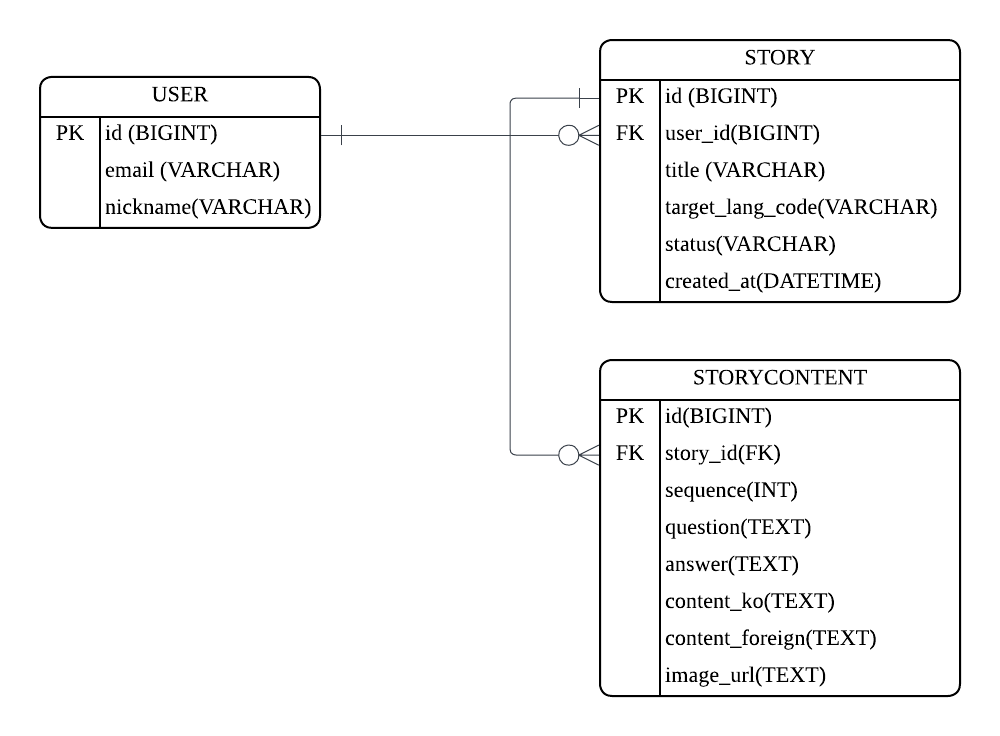
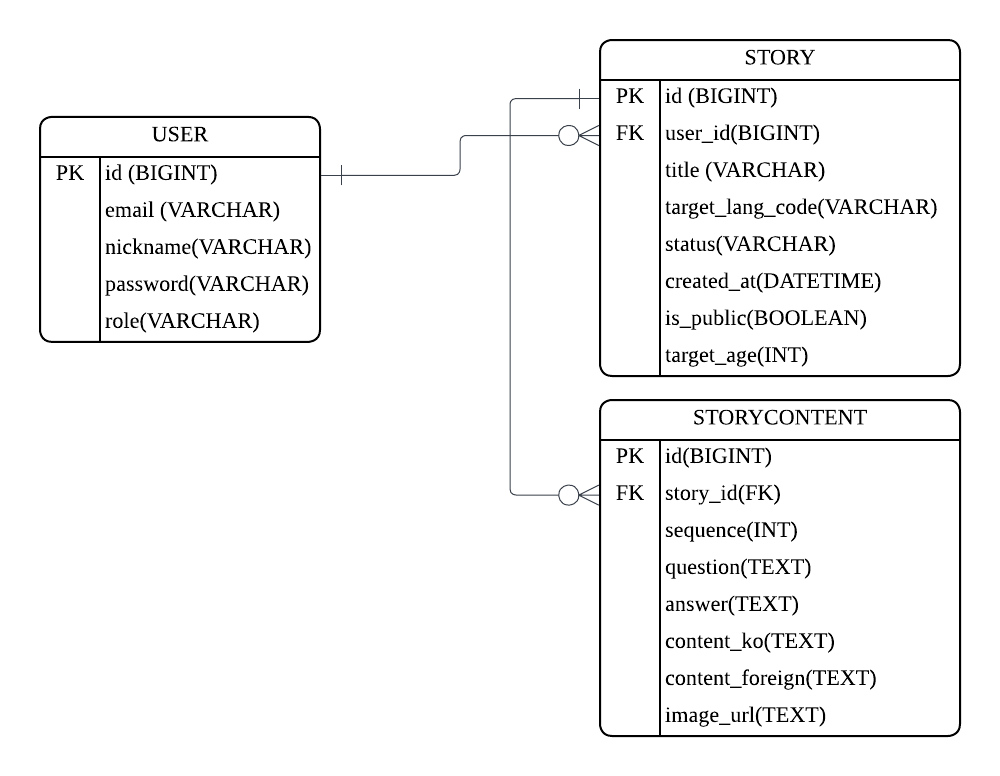
Feat : 회원가입 및 로그인 비밀번호 암호화 설정 후 테스트 완료

diff --git a/src/main/java/com/example/dual_tales/api/user/UserController.java b/src/main/java/com/example/dual_tales/api/user/UserController.java
@@ -1,11 +1,14 @@
 package com.example.dual_tales.api.user;
 
+import com.example.dual_tales.api.user.dto.LoginRequestDto;
 import com.example.dual_tales.api.user.dto.UserRequestDto;
+import com.example.dual_tales.api.user.dto.UserResponseDto;
 import com.example.dual_tales.domain.user.User;
-import com.example.dual_tales.domain.user.UserRepository;
+import com.example.dual_tales.service.user.UserService;
 import lombok.RequiredArgsConstructor;
 import io.swagger.v3.oas.annotations.Operation;
 import io.swagger.v3.oas.annotations.tags.Tag;
+import org.springframework.http.ResponseEntity;
 import org.springframework.web.bind.annotation.PostMapping;
 import org.springframework.web.bind.annotation.RequestBody;
 import org.springframework.web.bind.annotation.RequestMapping;
@@ -16,15 +19,20 @@ import org.springframework.web.bind.annotation.RestController;
 @RequiredArgsConstructor
 @Tag(name = "User", description = "유저 관련 API")
 public class UserController {
-    private final UserRepository userRepository;
+    private final UserService userService;
 
-    @PostMapping
-    @Operation(summary = "신규 유저 등록", description = "이메일과 닉네임을 받아 새로운 유저를 생성합니다.")
-    public User saveUser(@RequestBody UserRequestDto requestDto) {
-        User user = new User();
-        user.setEmail(requestDto.getEmail());
-        user.setNickname(requestDto.getNickname());
+    @PostMapping("/signup")
+    @Operation(summary = "회원가입", description = "이메일, 비밀번호, 닉네임을 받아 회원가입을 진행합니다.")
+    public ResponseEntity<Long> signUp(@RequestBody UserRequestDto requestDto) {
+        //UserService의 join 메서드 호출하여 회원가입
+        return ResponseEntity.ok(userService.join(requestDto));
+    }
 
-        return userRepository.save(user);
+    @PostMapping("/login")
+    @Operation(summary = "로그인", description = "이메일과 비밀번호로 로그인을 시도합니다.")
+    public ResponseEntity<UserResponseDto> login(@RequestBody LoginRequestDto loginDto) {
+        //UserService의 login 메서드 호출하여 비밀번호 검증 진행
+        UserResponseDto response = userService.login(loginDto.getEmail(), loginDto.getPassword());
+        return ResponseEntity.ok(response);
     }
 }

diff --git a/src/main/java/com/example/dual_tales/service/user/UserService.java b/src/main/java/com/example/dual_tales/service/user/UserService.java
@@ -1,0 +1,53 @@
+package com.example.dual_tales.service.user;
+
+import com.example.dual_tales.api.user.dto.UserRequestDto;
+import com.example.dual_tales.api.user.dto.UserResponseDto;
+import com.example.dual_tales.domain.user.User;
+import com.example.dual_tales.domain.user.UserRepository;
+import lombok.RequiredArgsConstructor;
+import org.springframework.security.crypto.bcrypt.BCryptPasswordEncoder;
+import org.springframework.security.crypto.password.PasswordEncoder;
+import org.springframework.stereotype.Service;
+import org.springframework.transaction.annotation.Transactional;
+
+@Service
+@RequiredArgsConstructor
+public class UserService {
+    private final UserRepository userRepository;
+    private final BCryptPasswordEncoder PasswordEncoder;
+    private final PasswordEncoder passwordEncoder;
+    private final BCryptPasswordEncoder bCryptPasswordEncoder;
+
+    @Transactional
+    public Long join(UserRequestDto requestDto) {
+        //이메일 중복 체크
+        if(userRepository.existsByEmail(requestDto.getEmail())) {
+            throw new IllegalArgumentException("이미 존재하는 이메일입니다.");
+        }
+        //비밀번호 암호화 후 저장
+        User user = new User();
+        user.setEmail(requestDto.getEmail());
+        user.setNickname(requestDto.getNickname());
+        user.setPassword(passwordEncoder.encode(requestDto.getPassword()));
+        user.setRole("USER");
+
+        return userRepository.save(user).getId();
+    }
+
+    @Transactional(readOnly = true)
+    public UserResponseDto login(String email, String password) {
+        //이메일로 유저 찾기
+        User user = userRepository.findByEmail(email)
+                .orElseThrow(() -> new IllegalArgumentException("가입되지 않은 이메일입니다."));
+
+        //비밀번호 비교
+        //password : 로그인 시 입력한 비밀번호
+        //user.getPassword() : DB에 저장된 암호화된 비밀번호
+        if(!bCryptPasswordEncoder.matches(password, user.getPassword())) {
+            throw new IllegalArgumentException("비밀번호가 일치하지 않습니다.");
+        }
+
+        //로그인 성공시 유저 ID 반환
+        return new UserResponseDto(user);
+    }
+}

diff --git a/src/main/java/com/example/dual_tales/global/config/SecurityConfig.java b/src/main/java/com/example/dual_tales/global/config/SecurityConfig.java
@@ -1,0 +1,28 @@
+package com.example.dual_tales.global.config;
+
+import org.springframework.context.annotation.Bean;
+import org.springframework.context.annotation.Configuration;
+import org.springframework.security.config.annotation.web.builders.HttpSecurity;
+import org.springframework.security.config.annotation.web.configuration.EnableWebSecurity;
+import org.springframework.security.crypto.bcrypt.BCryptPasswordEncoder;
+import org.springframework.security.web.SecurityFilterChain;
+
+@Configuration
+@EnableWebSecurity
+public class SecurityConfig {
+    //비밀번호 해시 처리
+    @Bean
+    public BCryptPasswordEncoder bCryptPasswordEncoder() {
+        return new BCryptPasswordEncoder();
+    }
+
+    @Bean
+    public SecurityFilterChain filterChain(HttpSecurity http) throws Exception {
+        http
+                .csrf(csrf -> csrf.disable()) //테스트를 위해 CSRF 보안 잠시 해제
+                .authorizeHttpRequests(auth -> auth
+                        .anyRequest().permitAll() // 잠시 모든 API 접근 허용
+                );
+        return http.build();
+    }
+}

diff --git a/src/main/java/com/example/dual_tales/domain/user/UserRepository.java b/src/main/java/com/example/dual_tales/domain/user/UserRepository.java
@@ -8,6 +8,6 @@ import java.util.Optional;
 @Repository
 //extends JpaRepository<User,Long> : 유저 데이터를 관리하는 인터페이스임을 명시(유저 저장, 찾기, 가져오기 삭제 함수를 자동으로 만들어줌)
 public interface UserRepository extends JpaRepository<User, Long> {
-    //닉네임으로 유저를 찾는 기능
-    Optional<User> findByNickname(String nickname);
+    Optional<User> findByEmail(String email); //이메일로 사용자 조회
+    boolean existsByEmail(String email); //이메일 중복 체크
 }

diff --git a/src/main/java/com/example/dual_tales/api/user/dto/UserResponseDto.java b/src/main/java/com/example/dual_tales/api/user/dto/UserResponseDto.java
@@ -1,0 +1,19 @@
+package com.example.dual_tales.api.user.dto;
+
+import com.example.dual_tales.domain.user.User;
+import lombok.Getter;
+
+@Getter
+public class UserResponseDto {
+    private Long id;
+    private String email;
+    private String nickname;
+    private String role;
+
+    public UserResponseDto(User user) {
+        this.id = user.getId();
+        this.email = user.getEmail();
+        this.nickname = user.getNickname();
+        this.role = user.getRole();
+    }
+}

diff --git a/src/main/java/com/example/dual_tales/domain/user/User.java b/src/main/java/com/example/dual_tales/domain/user/User.java
@@ -11,8 +11,14 @@ public class User {
     @GeneratedValue(strategy = GenerationType.IDENTITY) //ID 자동 생성
     private Long id;
 
+    @Column(nullable = false)
+    private String password;
+
     @Column(nullable = false, unique = true) //email null값 불허, 한 이메일 복수 계정 생성 불허
     private String email;
 
     private String nickname;
+
+    @Column(nullable = false)
+    private String role; //사용자 관리자 권한 (USER, ADMIN)
 }

diff --git a/src/main/java/com/example/dual_tales/domain/story/StoryRepository.java b/src/main/java/com/example/dual_tales/domain/story/StoryRepository.java
@@ -7,5 +7,9 @@ import java.util.List;
 
 @Repository
 public interface StoryRepository extends JpaRepository<Story, Long> {
+
+    List<Story> findAllByIsPublicTrueOrderByCreatedAtDesc(); //공개된 동화책 최신순 조회
+    List<Story> findAllByTargetAgeAndIsPublicTrue(int targetAge);
     List<Story> findByUser_Id(Long userId); //특정 유저가 만든 스토리 목록 가져오기
+
 }

diff --git a/src/main/java/com/example/dual_tales/domain/story/Story.java b/src/main/java/com/example/dual_tales/domain/story/Story.java
@@ -22,6 +22,10 @@ public class Story {
     private String title;
     private String targetLangCode; //모국어 코드(ex: en, vi 등)
     private String status;
+    private int targetAge;
 
-    private LocalDateTime createdAt;
+    private LocalDateTime createdAt = LocalDateTime.now();
+
+    @Column(nullable = false)
+    private boolean isPublic = true;
 }

diff --git a/src/main/java/com/example/dual_tales/api/user/dto/LoginRequestDto.java b/src/main/java/com/example/dual_tales/api/user/dto/LoginRequestDto.java
@@ -1,0 +1,11 @@
+package com.example.dual_tales.api.user.dto;
+
+import lombok.Getter;
+import lombok.NoArgsConstructor;
+
+@Getter
+@NoArgsConstructor
+public class LoginRequestDto {
+    private String email;
+    private String password;
+}

diff --git a/src/main/java/com/example/dual_tales/api/user/dto/UserRequestDto.java b/src/main/java/com/example/dual_tales/api/user/dto/UserRequestDto.java
@@ -8,4 +8,5 @@ import lombok.NoArgsConstructor;
 public class UserRequestDto {
     private String email;
     private String nickname;
+    private String password;
 }
